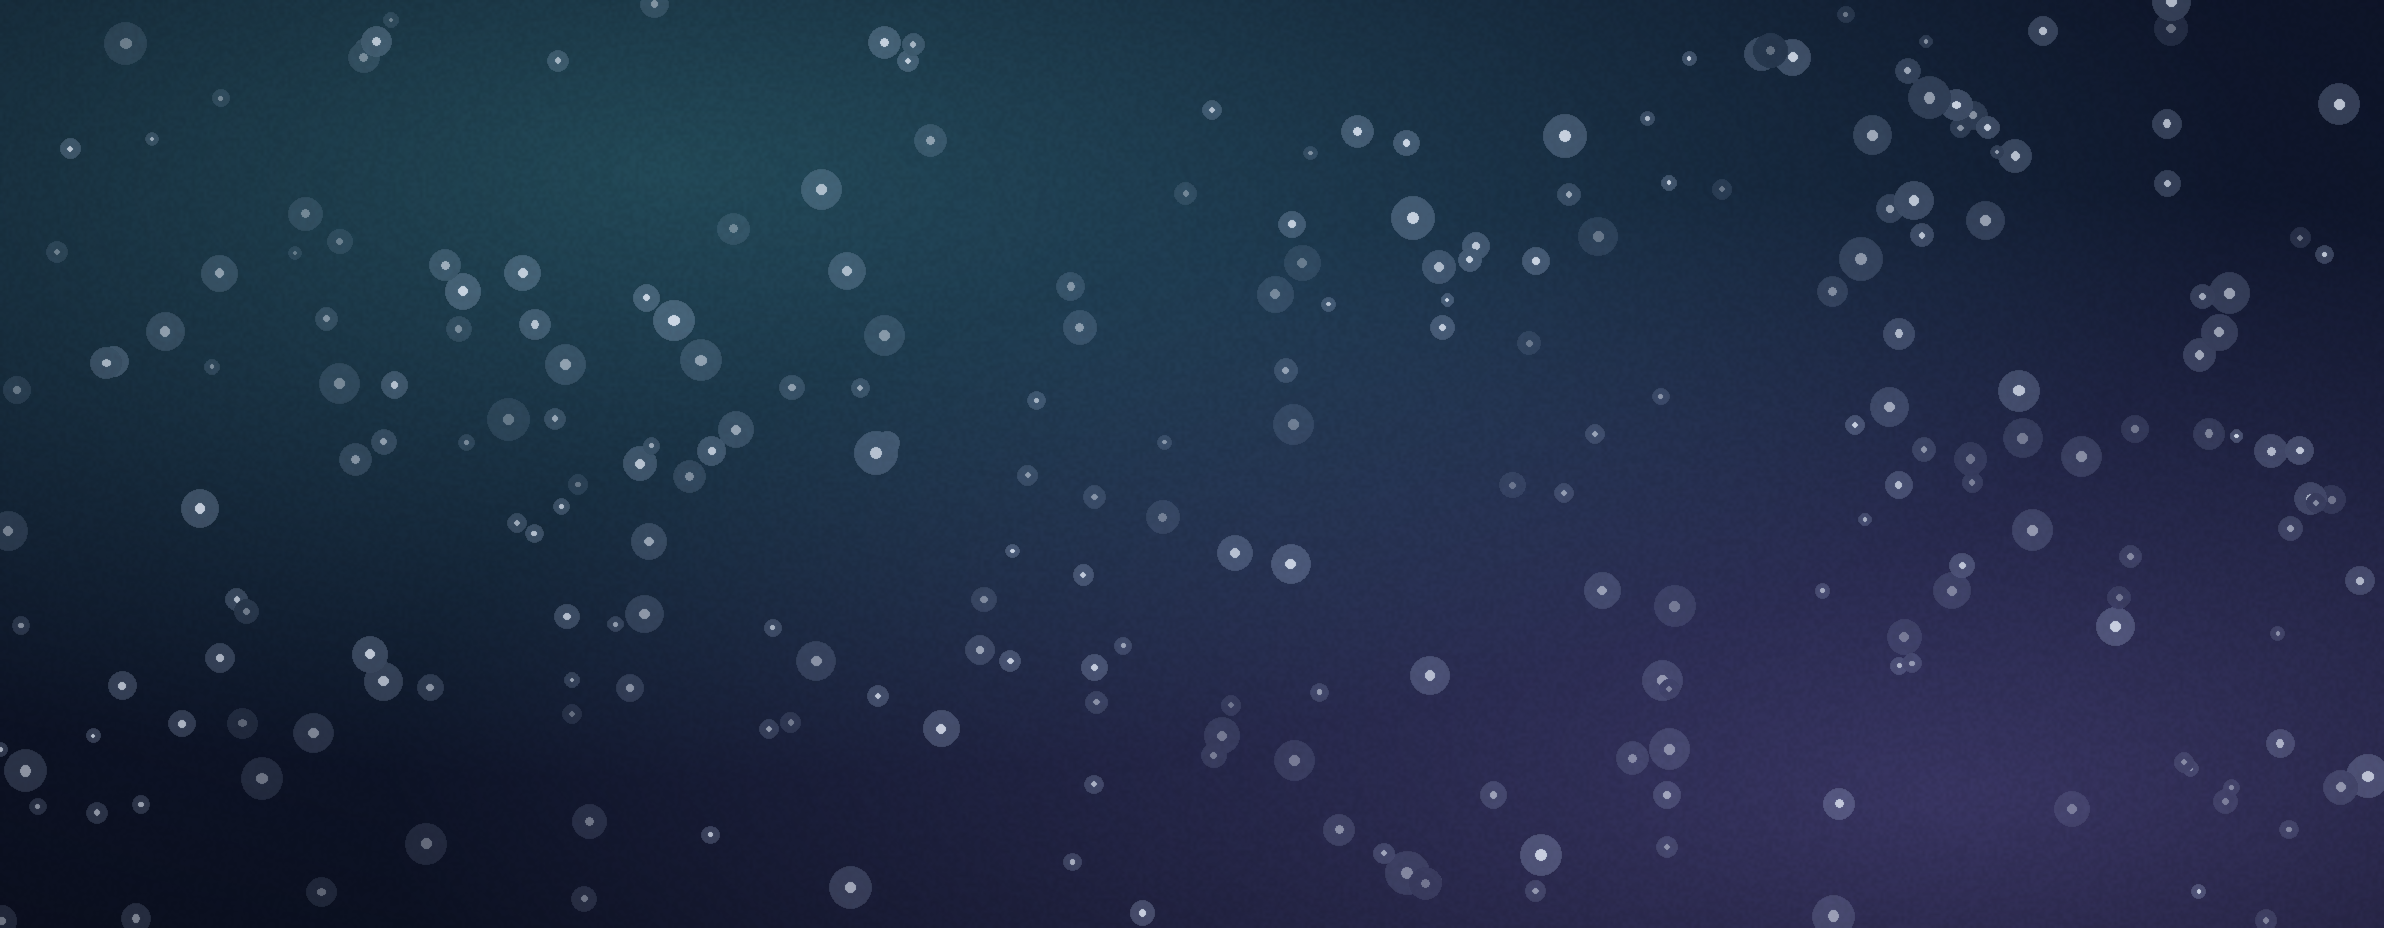
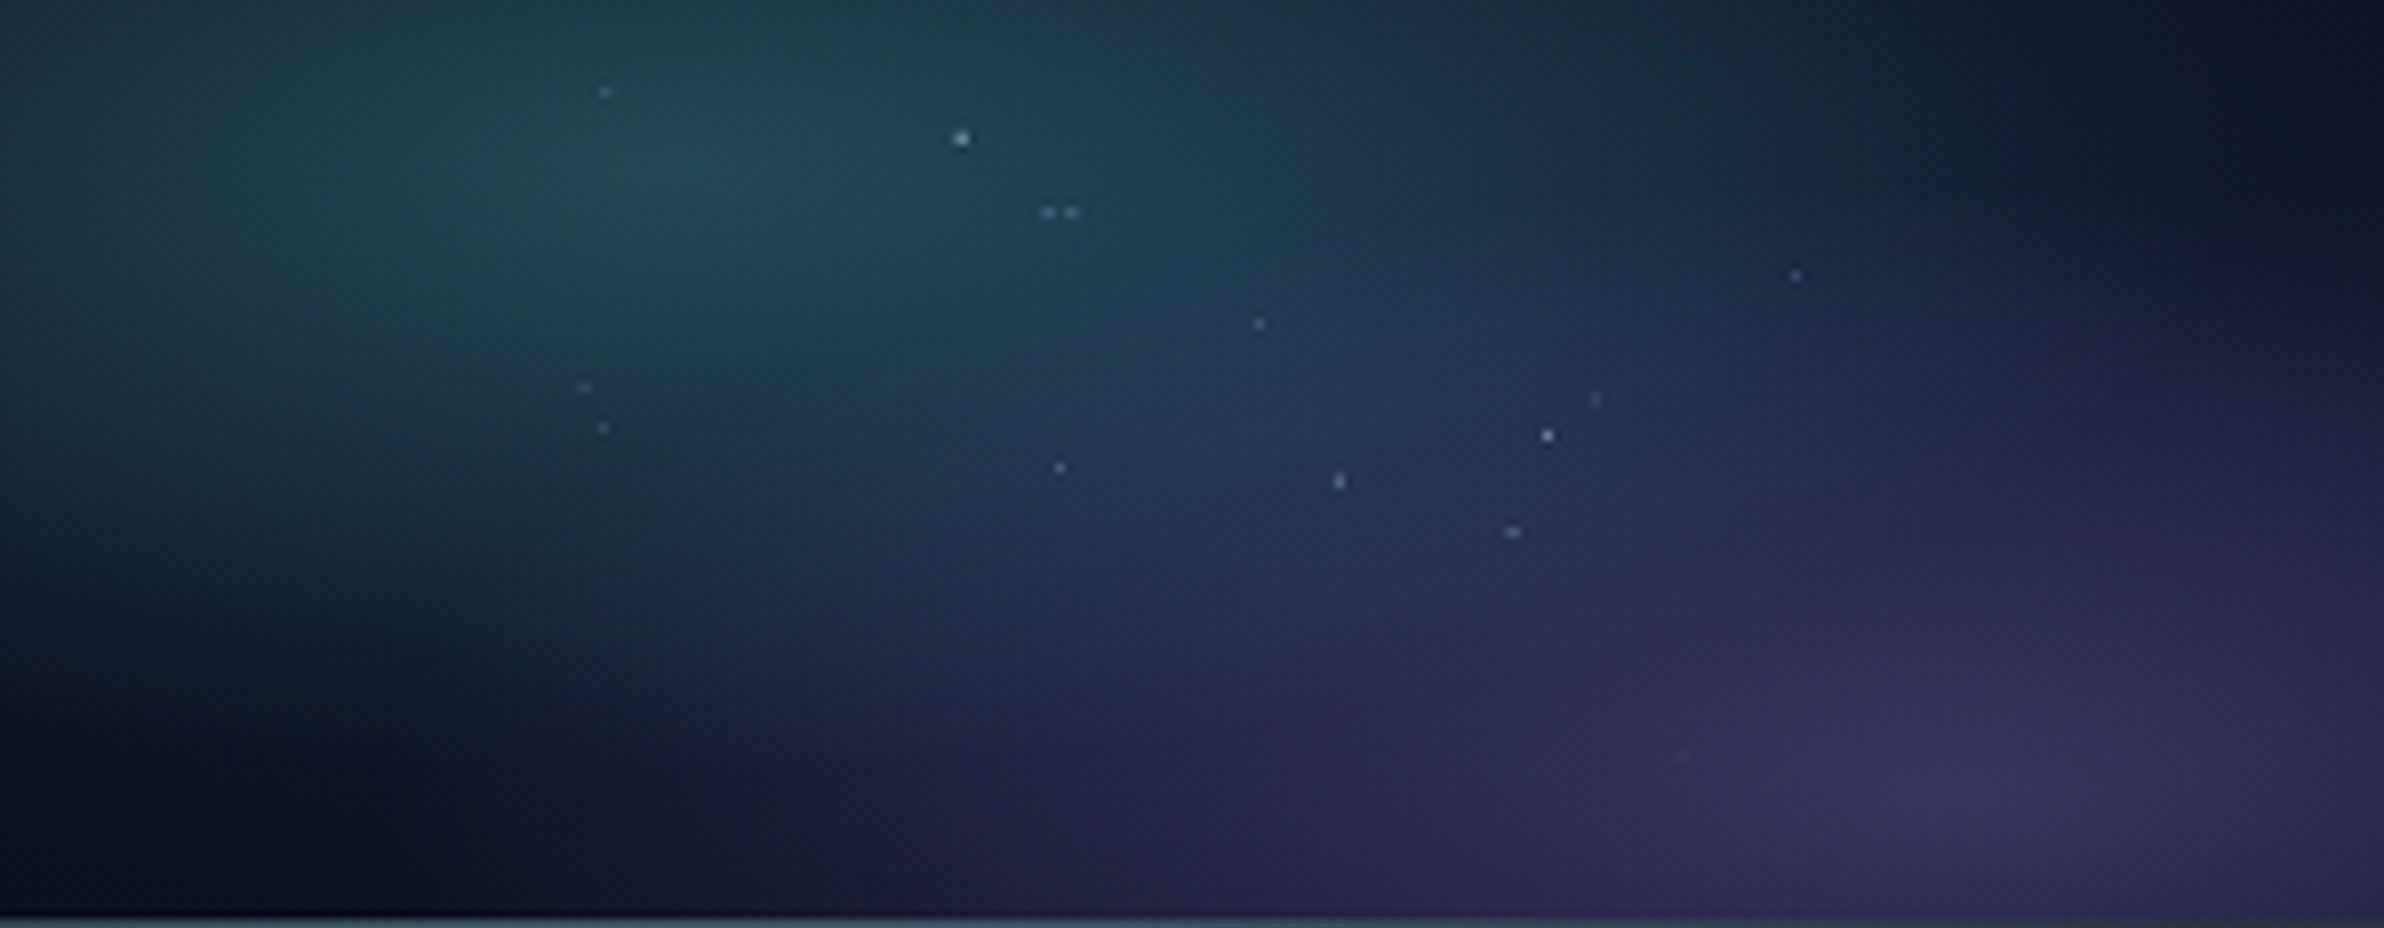
fix: replace synthetic card-background export with an authentic capture
The version merged in #114 was a from-scratch reconstruction of the CSS
gradient recipe -- the *formula* was verified correct at the real card's
own aspect ratio, but I made a mistake applying that same percentage-based
math directly to the 1080x1920 and 1024x1024 outputs, which have very
different aspect ratios than the real card (298:116). CSS radial-gradient
percentage sizing is relative to the box it's in, so the same formula
produces a differently-shaped (wrong) glow at a different aspect ratio.
On top of that, the stars were randomly generated rather than the app's
actual ones.

This replaces all three PNGs with an authentic capture instead:
- Loaded the real app, selected an object with no real photo (so it
  renders the actual fallback), and surgically removed only the
  satellite-illustration SVG elements via the DOM -- leaving the real
  CSS background and the real, actual star positions from that page
  load untouched.
- Verified pixel-for-pixel against an unmodified capture of the same
  card: every corner matches exactly; only the center (where the
  satellite icon was) changed.
- Upscaled from the real 298x116 capture and cover-fit cropped to each
  target size, so proportions stay correct regardless of output aspect
  ratio.

Same file paths/names as before -- pure content replacement, still
nothing referenced by the app.

diff --git a/design/brand/card-background/README.md b/design/brand/card-background/README.md
@@ -8,30 +8,49 @@ object without a real photo renders its info card:
    `#info-figure` in `apps/web/src/styles/app.css` (search for `#info-figure{`).
 2. **The scattered stars** — plain JS, random `<circle>` positions generated at
    render time in `apps/web/src/ui/figures.js` (`svgFor()`, the `stars` variable).
-   Randomized per render in the real app — these exports freeze one specific
-   draw of them.
 3. **The film-grain texture** — an inline `feTurbulence`-based SVG data-URI,
-   `#fx-grain` in `app.css` / `index.html`.
+   `#fx-grain` in `app.css` / `index.html`. Not present in these exports (see below).
 
 If any of those three change, these PNGs go stale. **Don't point the app at these
 files** — if you need the background in a new size in the live product, add a size
 to the real CSS/JS, not a new export here.
 
+## How these were made (v2 — corrected)
+These are **authentic captures**, not a hand-reconstructed approximation:
+
+1. Loaded the real, live app in a real browser (headless Chromium via Playwright)
+   and selected STARLINK-35763 — an object with no real photo, so it renders the
+   CSS-gradient + SVG-star fallback.
+2. Surgically removed only the satellite-illustration shapes from the rendered
+   SVG DOM (6 elements) while leaving the real, actual star circles (14 of them,
+   their genuine positions/sizes/opacities from that page load) and the untouched
+   CSS gradient background fully intact.
+3. Verified this pixel-for-pixel against an unmodified capture of the same card:
+   every corner pixel matched exactly; only the center (where the satellite icon
+   used to be) changed. So this is the genuine background, not a recreation.
+4. Upscaled 8x (Lanczos) from the real 298×116 capture, then cover-fit cropped to
+   each target size.
+
+An earlier version of these files was a *from-scratch synthetic reconstruction* of
+the CSS/JS recipe (right formula, but reapplied incorrectly at each target aspect
+ratio, and with randomly-generated stars rather than the app's real ones) — this
+version replaces that with an actual capture instead.
+
+Not included here: the `#fx-grain` noise texture, since it sits behind the UI
+layer (z-index) rather than directly on this element — worth revisiting if a
+future export needs to match texture as well as color/position exactly.
+
 ## Files
-- `card-fallback-bg-master.png` — large reference render at the *correct* native
-  proportions (298:116, the real card's own aspect ratio) — 2384×928. Re-crop from
-  this if you need another size; cropping from here (rather than recomputing the
-  CSS math at a new aspect ratio) is what keeps the glow shapes correct. See the
-  note below on why that matters.
-- `card-fallback-bg-1080x1920.png` — cover-fit crop of the master, for portrait
-  marketing use (App Store screenshots, social).
+- `card-fallback-bg-master.png` — the authentic capture, upscaled — 2384×928,
+  correct native aspect ratio (298:116, the real card's own proportions). Re-crop
+  from this if you need another size.
+- `card-fallback-bg-1080x1920.png` — cover-fit crop of the master, portrait.
 - `card-fallback-bg-1024x1024.png` — cover-fit crop of the master, square.
 
 ## Why "cover-fit crop from a correct-aspect master" and not "recompute at any size"
 The CSS uses percentage-based sizing (e.g. `120% 120%` per glow), which is only
-correct relative to a box shaped like the real card. Naively reapplying that same
+correct relative to a box shaped like the real card. Reapplying that same
 percentage math to a very different aspect ratio (e.g. a tall 1080×1920 canvas)
-produces a differently-shaped, wrong-looking glow — stretched into a tall ellipse
-instead of the compact one you actually see in the app. Rendering once at the
-correct native aspect ratio and then cropping to fit (like a wallpaper crop) keeps
-the proportions honest at any output size.
+produces a differently-shaped, wrong-looking glow. Capturing once at the correct
+native aspect ratio and then cropping to fit (like a wallpaper crop) keeps the
+proportions honest at any output size.